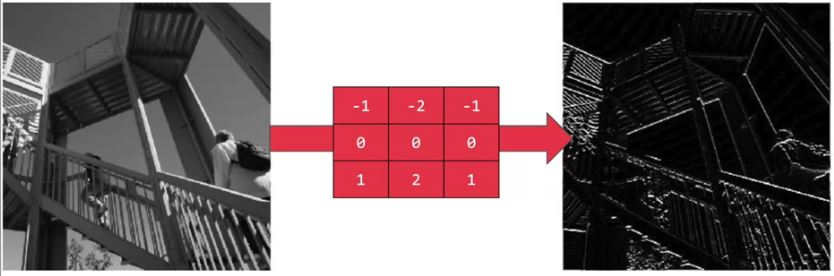
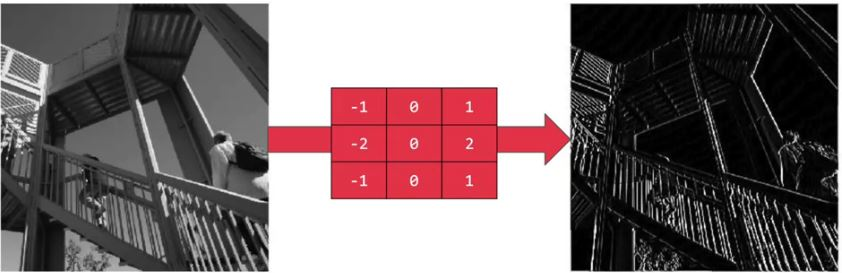
Convolutions concepts 😏

diff --git a/3-CNNConcepts/0-CommonConcepts.md b/3-CNNConcepts/0-CommonConcepts.md
@@ -1,0 +1,112 @@
+# Common Concepts About Convolutional Neural Networks
+
+## Important Terms
+| Term            | Description   |
+| --------------- |---------------|
+| Convolutoin     | Applying some filter on an image so certain features in the image get emphasized |
+| Padding         | Adding additional border(s) to the image before convolution  |
+
+
+## Convolution Example
+<img src="../res/ConvolutionEx.png" width="450"  />
+
+#### How did we find -7? 🤔
+We did element wise product then we get the sum of the result matrix; so:
+
+```
+3*1 + 1*0 + 1*(-1)
++
+1*1 + 0*0 + 7*(-1)
++
+2*1 + 3*0 + 5*(-1)
+=
+-7
+```
+And so on for other elemnts 🙃
+
+## Edge Detection
+An application of convolution operation
+
+### Edge Detection Examples
+<img src="../res/ConvolutionExH.JPG" width="450"  />
+
+> Result: horizontal lines pop out
+
+<img src="../res/ConvolutionExV.JPG" width="450"  />
+
+> Result: vertical lines pop out
+
+### What About other Numbers 🙄
+There are a lot of ways we can put number inside elements of the filter. 
+
+For example _Sobel_ filter is like:
+
+```
+1   0   -1
+2   0   -2
+1   0   -1
+```
+
+And _Scharr_ filter is like:
+
+```
+3    0   -3
+10   0   -10
+3    0   -3
+```
+
+> So the point here is to pay attention to the middle row
+
+### Another Approach
+We can tune these numbers by ML approach; we can say that the filter is a group of weights that:
+
+```
+w1    w2   w3
+w4    w5   w6
+w7    w8   w9
+```
+
+By that we can get -learned- horizontal, vertical, angled, or any edge type automatically rather than getting them by hand.
+
+
+## Computational Details
+If we have an `n*n` image and we convolove it by `f*f` filter the the output image will be `n-f+1*n-f+1` 
+
+### Downsides 😪
+1. If we apply many filters then our image shrinks.
+2. Pixels at corners aren't being touched enough, so we are throwing away a lot of information from the edges of the image .
+
+### Solution
+We can _pad_ the image 💪 
+
+## Padding
+Adding an additional one border _or more_ to the image so the image is n+2*n+2 and after convolution we end up with n * n image which is the origianl size of the image
+
+`p` = number of added borders
+
+> For convention: it is filled by 0
+
+## How much to pad?
+For better understanding let's say that we have two concepts:
+
+### Valid Convolutions
+It means no padding so:
+
+`n x n`  *  `f x f`  ➡  `n-f+1 x n-f+1`
+
+### Same Convolutions
+Pad so that output size is the **same** as the input size.
+
+So we want that 🧐: 
+
+`n+2p-f+1` = `n`
+
+Hence:
+
+`p` = `(f-1)/2`
+
+> For convention f is chosen to be odd 👩🚀
+
+
+## References
+* [More on Convolutional Neural Networks](https://www.youtube.com/playlist?list=PLkDaE6sCZn6Gl29AoE31iwdVwSG-KnDzF)

diff --git a/3-CNNConcepts/README.md b/3-CNNConcepts/README.md
@@ -8,15 +8,8 @@ Improving Neural Networks used in Computer Vision problems
 | Convolutoin     | Applying some filter on an image so certain features in the image get emphasized |
 | Pooling         | A way of compressing an image  |
 | 2*2 max pooling | For every 4 neighbor pixels the biggest one will survive |
+| Padding         | Adding additional border(s) to the image before convolution  |
 
-## Convolution Examples
-<img src="../res/ConvolutionExH.JPG" width="450"  />
-
-> Result: horizontal lines pop out
-
-<img src="../res/ConvolutionExV.JPG" width="450"  />
-
-> Result: vertical lines pop out
 
 ## Notes on performance :dizzy:
 * Training speed of a CNN is too slower than plain NN because of its computational complexity :turtle:
